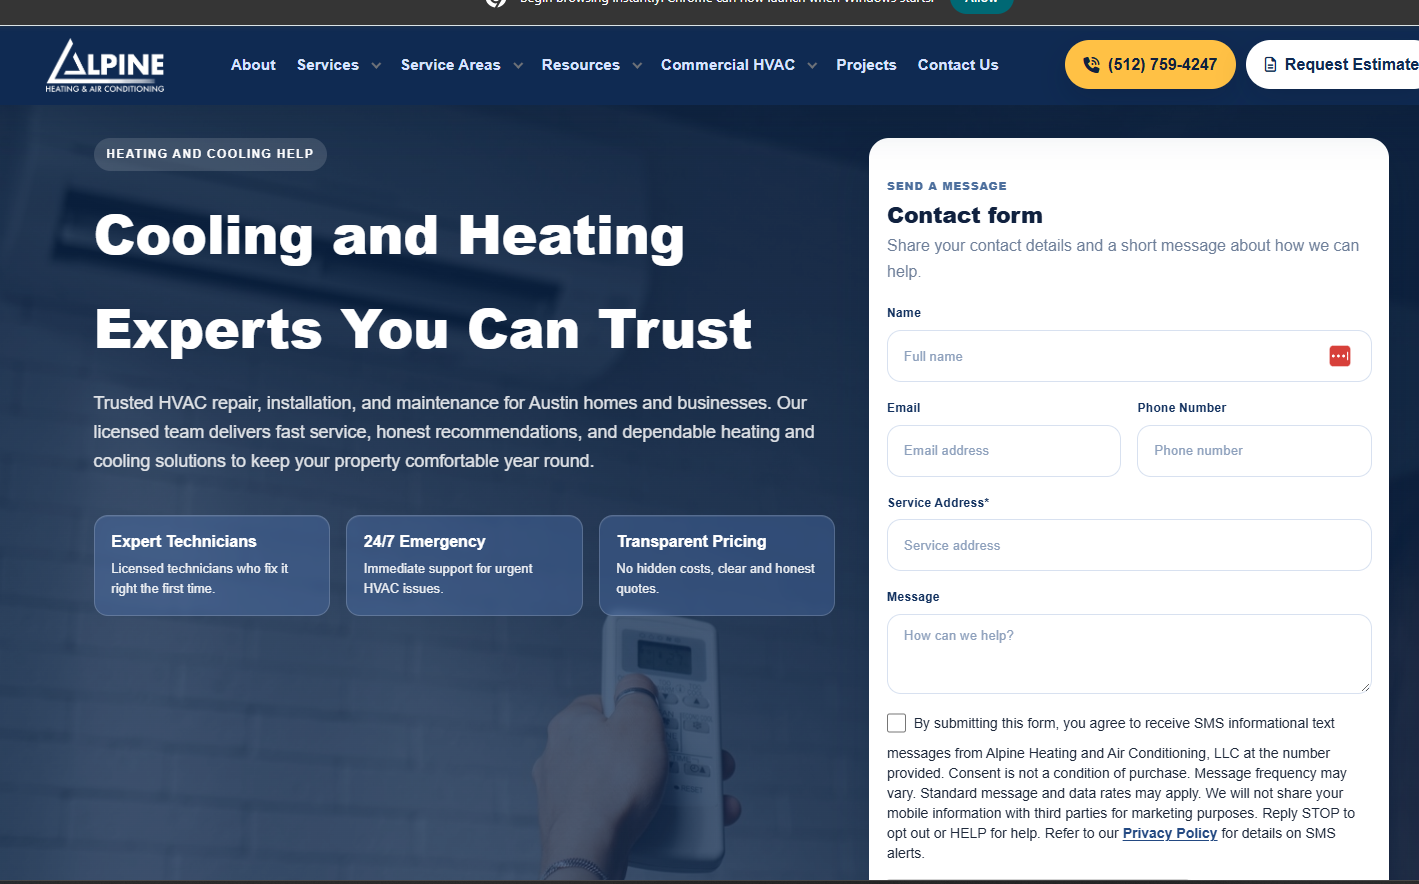
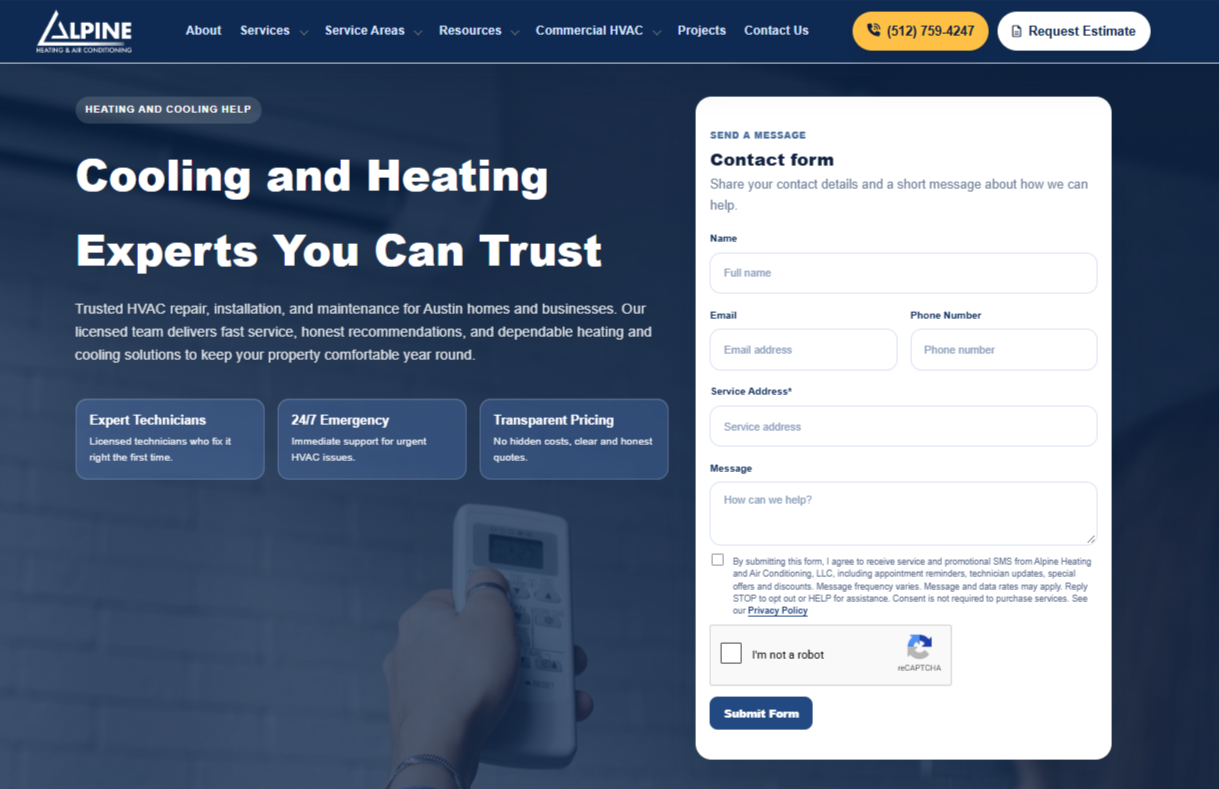
sms consent content and screenshots accordingly

diff --git a/wp-content/themes/austin-alpine/inc/sms-consent.php b/wp-content/themes/austin-alpine/inc/sms-consent.php
@@ -19,7 +19,7 @@
  * that was actually on screen when the customer agreed.
  */
 if (!defined('ALPINE_SMS_CONSENT_TEXT_VERSION')) {
-    define('ALPINE_SMS_CONSENT_TEXT_VERSION', '2026-09-24');
+    define('ALPINE_SMS_CONSENT_TEXT_VERSION', '2026-09-25');
 }
 
 function alpine_get_sms_consent_privacy_url() {
@@ -32,11 +32,21 @@ function alpine_get_sms_consent_privacy_url() {
  * The combined opt-in is optional and is not enforced on submit.
  */
 function alpine_get_sms_consent_options() {
+    // CF7 submits through REST, where the original page query is unavailable.
+    // Use its container page so the audit log records the same business shown.
+    $submission = class_exists('WPCF7_Submission') ? WPCF7_Submission::get_instance() : null;
+    $is_commercial = $submission
+        ? 'commercial-hvac-austin-tx' === get_post_field('post_name', (int) $submission->get_meta('container_post_id'))
+        : is_page('commercial-hvac-austin-tx');
+    $business = $is_commercial
+        ? 'Alpine Commercial Services, LLC'
+        : 'Alpine Heating and Air Conditioning, LLC';
+
     return array(
         array(
             'name'  => 'sms-consent-combined',
             'title' => 'Service and Promotional SMS (Optional)',
-            'text'  => 'By submitting this form, I agree to receive service and promotional SMS from Alpine Heating and Air Conditioning, including appointment reminders, technician updates, special offers and discounts. Message frequency varies. Message and data rates may apply. Reply STOP to opt out or HELP for assistance. Consent is not required to purchase services.',
+            'text'  => 'By submitting this form, I agree to receive service and promotional SMS from ' . $business . ', including appointment reminders, technician updates, special offers and discounts. Message frequency varies. Message and data rates may apply. Reply STOP to opt out or HELP for assistance. Consent is not required to purchase services.',
         ),
     );
 }
